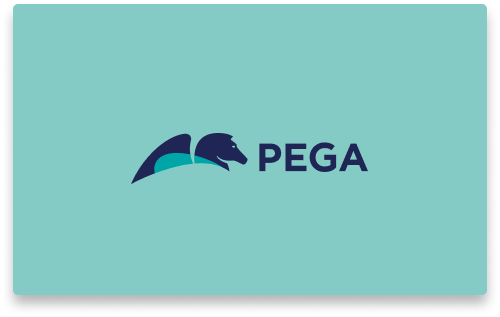
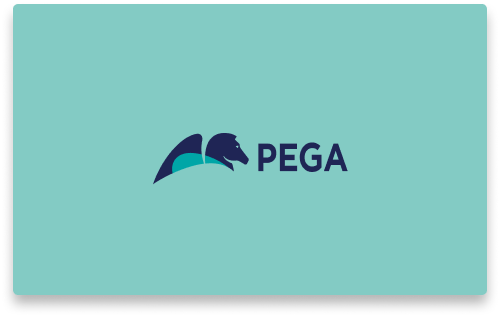
case studies micro-animtations added

Changed region(s): [[0.27, 0.3975, 0.75, 0.5962], [0.42, 0.3975, 0.45, 0.4259]]

diff --git a/index.html b/index.html
@@ -159,32 +159,36 @@
           </div>
         </div>
         <div class="case-studies-cards">
-          <img id="cardimage" src="./images/pega.png" alt="" />
-          <div class="card-content">
-            <div class="card-tags">
-              <div class="cart-tag text-sm">Accessibility audit</div>
+          <div class="case-container">
+            <img id="cardimage" src="./images/pega.png" alt="" />
+            <div class="card-content">
+              <div class="card-tags">
+                <div class="cart-tag text-sm">Accessibility audit</div>
+              </div>
+              <h3><a class="project_card" href="">Pega Platform Tour</a></h3>
+              <p class="p-card">
+                testing sakdjfhsdkfh asdfjh sdfkhasdf as;lksjdf asdfljhsadf
+                asdkfh asdkjfasdkfjhasd
+              </p>
             </div>
-            <h3>Pega Platform Tour</h3>
-            <p class="p-card">
-              testing sakdjfhsdkfh asdfjh sdfkhasdf as;lksjdf asdfljhsadf asdkfh
-              asdkjfasdkfjhasd
-            </p>
           </div>
         </div>
         <div class="case-studies-cards">
-          <img id="cardimage" src="./images/bi.png" alt="" />
-          <div class="card-content">
-            <div class="card-tags">
-              <div class="card-tag text-sm">UX/UI</div>
-              <div class="card-tag text-sm">Accessibility audit</div>
-              <div class="card-tag text-sm">Design System</div>
-              <div class="card-tag text-sm">Responsive Design</div>
+          <div class="case-container">
+            <img id="cardimage" src="./images/bi.png" alt="" />
+            <div class="card-content">
+              <div class="card-tags">
+                <div class="card-tag text-sm">UX/UI</div>
+                <div class="card-tag text-sm">Accessibility audit</div>
+                <div class="card-tag text-sm">Design System</div>
+                <div class="card-tag text-sm">Responsive Design</div>
+              </div>
+              <h3><a class="project_card" href="">Boehringer Ingelheim</a></h3>
+              <p class="p-card">
+                testing sakdjfhsdkfh asdfjh sdfkhasdf as;lksjdf asdfljhsadf
+                asdkfh asdkjfasdkfjhasd
+              </p>
             </div>
-            <h3>Boehringer Ingelheim</h3>
-            <p class="p-card">
-              testing sakdjfhsdkfh asdfjh sdfkhasdf as;lksjdf asdfljhsadf asdkfh
-              asdkjfasdkfjhasd
-            </p>
           </div>
         </div>
       </div>

diff --git a/style.css b/style.css
@@ -254,21 +254,23 @@ h2 {
   column-gap: 40px;
   margin-top: 80px;
 }
+
 .case-container {
   display: flex;
   justify-content: center;
   column-gap: 30px;
-  transition-property: transform 300ms;
+  /* transition-property: transform; */
 }
 
 .case-container:hover #cardimage {
   transform: rotate(5deg);
+  /* transition: transform 0.5s; */
   cursor: pointer;
 }
 
 #cardimage {
   width: 350px;
-  /* transition-property: transform 300ms; */
+  transition: transform 300ms;
 }
 
 .card-tags {
@@ -280,6 +282,10 @@ h2 {
 
 .project_card {
   font-weight: bold;
+}
+
+.card-content:hover {
+  cursor: pointer;
 }
 
 .p-card {
